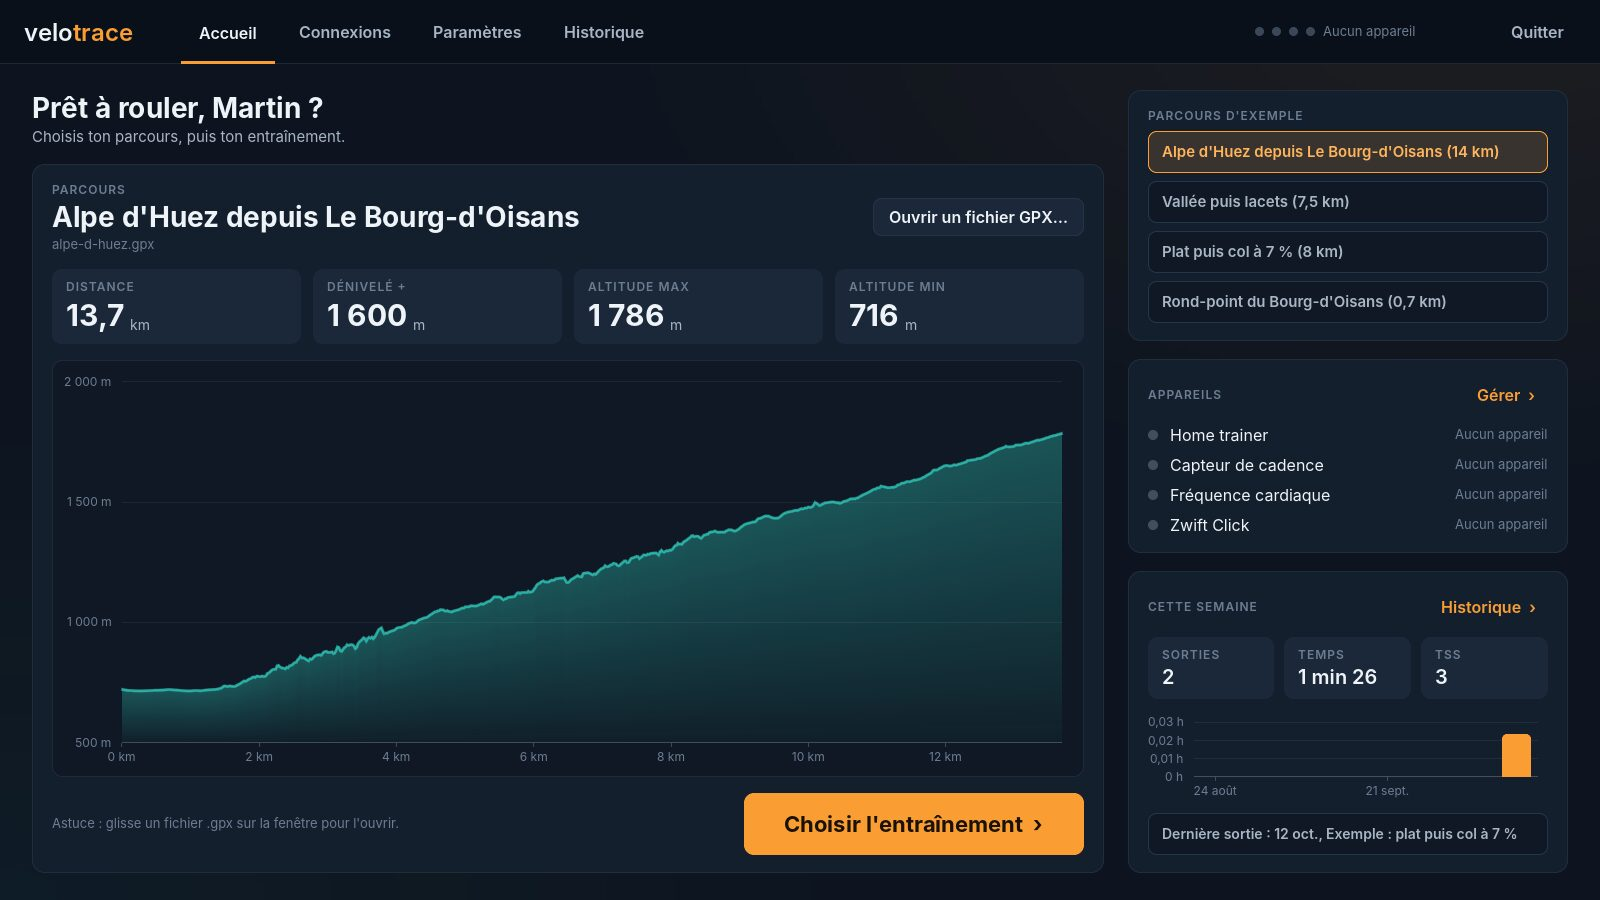
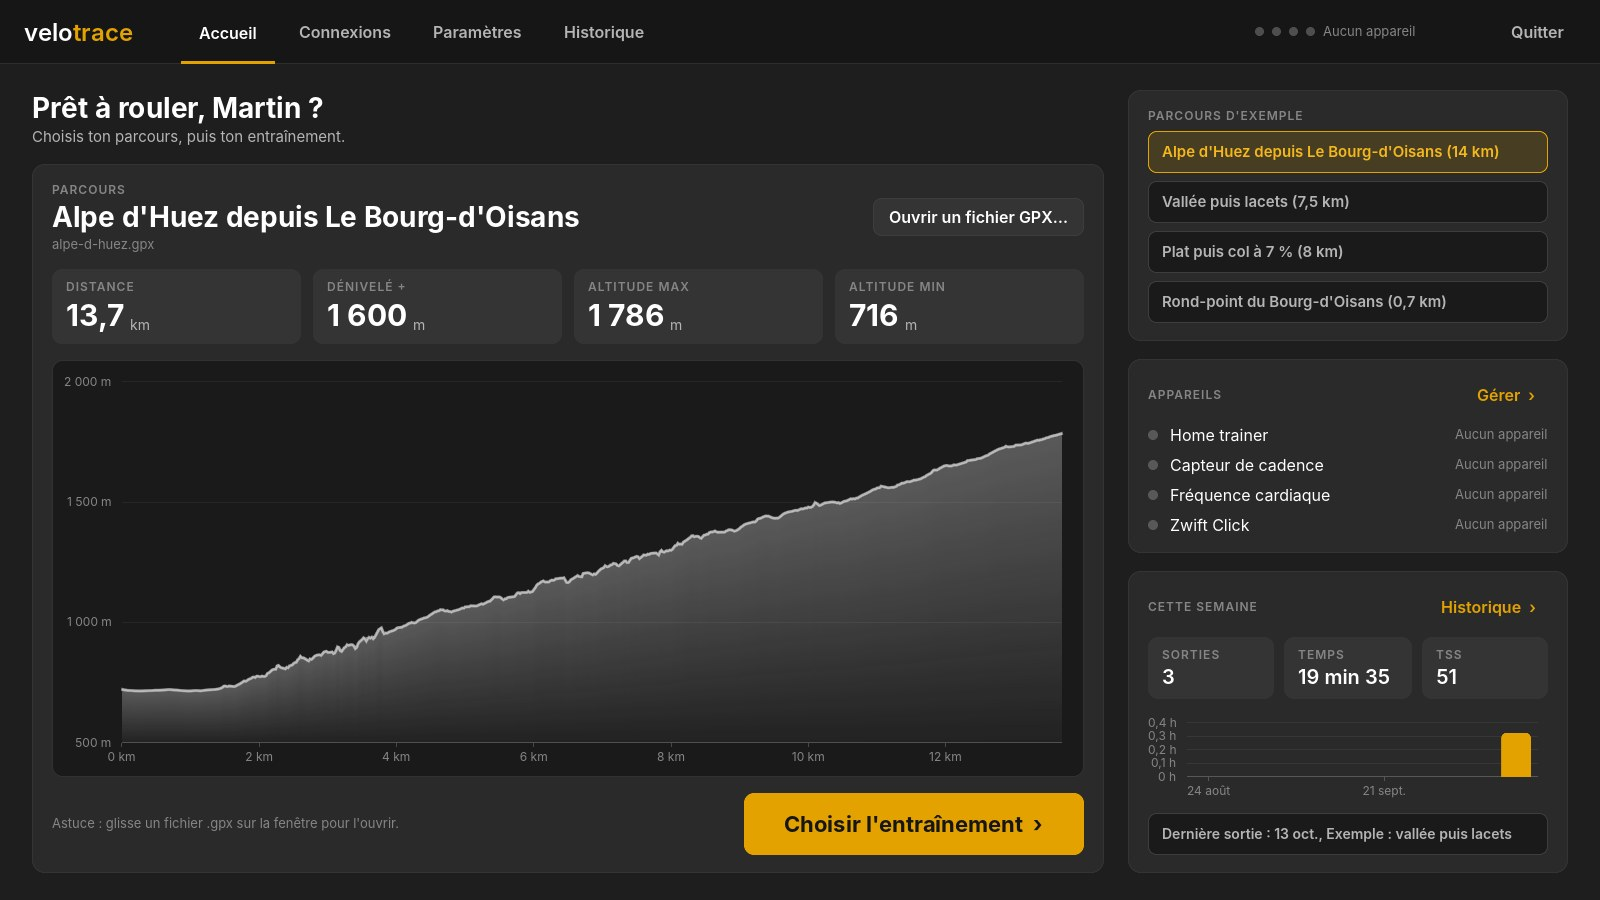
Menu : palette gris anthracite et jaune d'or, dans l'esprit de MyWhoosh
Remplace le bleu nuit, l'orange et le bleu-vert par des gris neutres et un
accent jaune d'or ; retire les halos colorés du fond. Mise en page inchangée.

Claude-Session: https://claude.ai/code/session_01GmXukm6M6D5fXNDfcUXFLU

diff --git a/README.md b/README.md
@@ -41,7 +41,7 @@ godot --path app                   # ou ouvrir app/project.godot dans l'éditeur
 
 **Paramètres** : cycliste (poids, FTP et zones), vélo (plateaux, cassette, roue, CdA, Crr, rendement), home trainer (rapport physique, difficulté des pentes, pentes limites), affichage et décor (caméra, décor, qualité, Click automatiques) et Strava. Tout est enregistré dans `~/.config/velotrace/profile.toml` (`%APPDATA%\velotrace\profile.toml` sous Windows).
 
-![Choix de l'entraînement : séance paramétrée](docs/captures/app-entrainement.jpg)
+![Choix de l'entraînement : sortie libre](docs/captures/app-entrainement.jpg)
 
 **Entraînement**, quatre modes :
 
